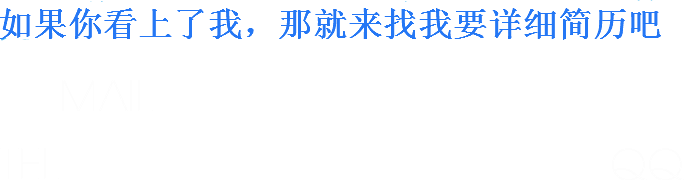
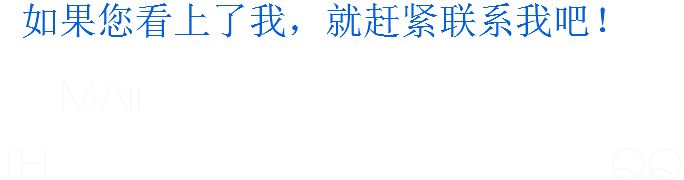
更新

Changed region(s): [[0.0, 0.0278, 0.9825, 0.2222]]

diff --git a/index.html b/index.html
@@ -39,6 +39,7 @@
                 <li data-menuanchor="page2"><a href="#page2">技能</a></li>
                 <li data-menuanchor="page3"><a href="#page3">案例作品</a></li>
                 <li data-menuanchor="page4"><a href="#page4">联系方式</a></li>
+                <li ><a href="https://liefgeni.github.io/Resume/dist/index.html">详细简历</a></li>
             </ul>
         </div>
     </div>
@@ -179,6 +180,7 @@
             </p>
               <h1 style="color: pink;font-size: 20px">另外张木期并不是我真实姓名哈，详细资料都在简历中。。。</h1>
             <p>
+
                 	<span class="zhishi zhishi_1"></span>
                 </p>
             <p>
@@ -188,7 +190,7 @@
                 <span class="zhishi zhishi_3"></span>
             </p>
             <p>
-            	<span class="yue_info yue_1"><i>:简历中。。。</i></span>
+            	<span class="yue_info yue_1" ><i>：详细简历中</i></span>
             </p>
             <p>
             	<span class="yue_info yue_2"><i>:nanshenstudy@163.com</i></span>
